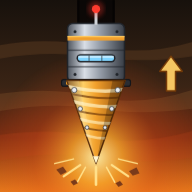
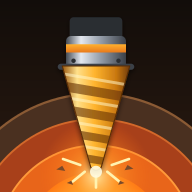
v5.1: új alkalmazás-ikon – nagy, jól olvasható fúrófej a Föld rétegei közt, izzó maggal (any + maszkolható változat)
Claude-Session: https://claude.ai/code/session_01UjEV95rRKq3aCWxjZHZxfo

diff --git a/sw.js b/sw.js
@@ -1,4 +1,4 @@
-const V='drillup-v75',A=['./','index.html','js/base.js','js/fullscreen.js','js/layout.js','js/terrain.js','js/stats.js','js/wear.js','js/quests.js','js/paint.js','js/ambient.js','js/perf.js','js/power.js','js/blueprint.js','js/tunnels.js','js/lamps.js','js/bits.js','js/depot.js','js/bitgfx.js','js/face.js','js/route.js','js/aging.js','js/minerals.js','js/geo.js','js/seismo.js','js/hydro.js','js/lab.js','js/depotgfx.js','js/mechfx.js','js/rpm.js','js/native.js','js/turn3d.js','js/chamber.js','js/heatglow.js','js/volcano.js','js/hill.js','js/damage.js','js/sensor.js','js/vlight.js','js/surface.js','js/story.js','js/cine.js','js/panels.js','js/appshell.js','js/lecture.js','js/diag.js','js/goals.js','js/zoom.js','js/gauge.js','ui.css','manifest.webmanifest','icon.svg','icon-180.png','icon-192.png','icon-512.png','icon-maskable-512.png'];
+const V='drillup-v76',A=['./','index.html','js/base.js','js/fullscreen.js','js/layout.js','js/terrain.js','js/stats.js','js/wear.js','js/quests.js','js/paint.js','js/ambient.js','js/perf.js','js/power.js','js/blueprint.js','js/tunnels.js','js/lamps.js','js/bits.js','js/depot.js','js/bitgfx.js','js/face.js','js/route.js','js/aging.js','js/minerals.js','js/geo.js','js/seismo.js','js/hydro.js','js/lab.js','js/depotgfx.js','js/mechfx.js','js/rpm.js','js/native.js','js/turn3d.js','js/chamber.js','js/heatglow.js','js/volcano.js','js/hill.js','js/damage.js','js/sensor.js','js/vlight.js','js/surface.js','js/story.js','js/cine.js','js/panels.js','js/appshell.js','js/lecture.js','js/diag.js','js/goals.js','js/zoom.js','js/gauge.js','ui.css','manifest.webmanifest','icon.svg','icon-180.png','icon-192.png','icon-512.png','icon-maskable-512.png'];
 self.addEventListener('install',e=>e.waitUntil(caches.open(V).then(c=>c.addAll(A))));
 self.addEventListener('activate',e=>e.waitUntil(caches.keys().then(k=>Promise.all(k.filter(x=>x!=V).map(x=>caches.delete(x)))).then(()=>clients.claim())));
 self.addEventListener('message',e=>{if(e.data=='skip')self.skipWaiting()});

diff --git a/index.html b/index.html
@@ -75,7 +75,7 @@ h3{margin:14px 0 4px}select,input[type=range]{width:100%;font:inherit;padding:6p
 <script src="js/tunnels.js"></script>
 <script src="js/lamps.js"></script>
 <script>
-const $=s=>document.querySelector(s),G=9.81,A=Math.PI*.36,R=6371e3,VER='5.0.2';
+const $=s=>document.querySelector(s),G=9.81,A=Math.PI*.36,R=6371e3,VER='5.1';
 const nf=(n,d=0)=>n.toLocaleString('hu-HU',{maximumFractionDigits:d});
 const fd=n=>nf(n,n<100?2:1)+' m'+(n>=1000?` (${nf(n/1000,3)} km)`:'');
 const fk=k=>k<1?nf(k*1000,1)+' g':k>=1e4?nf(k/1000,2)+' t':nf(k,1)+' kg';
